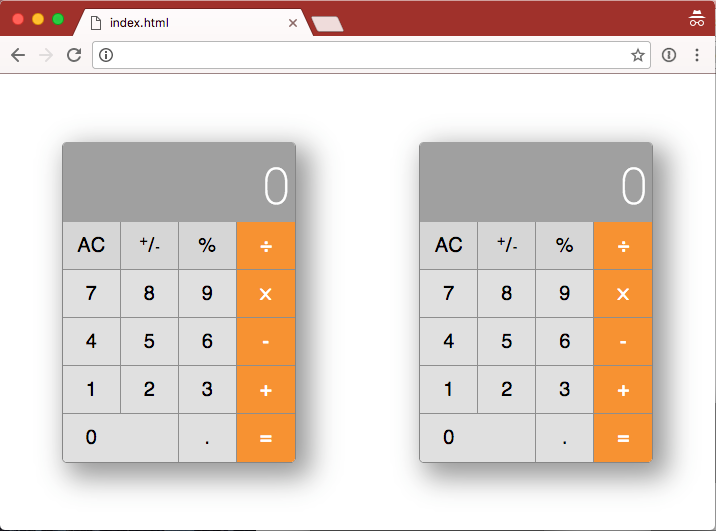
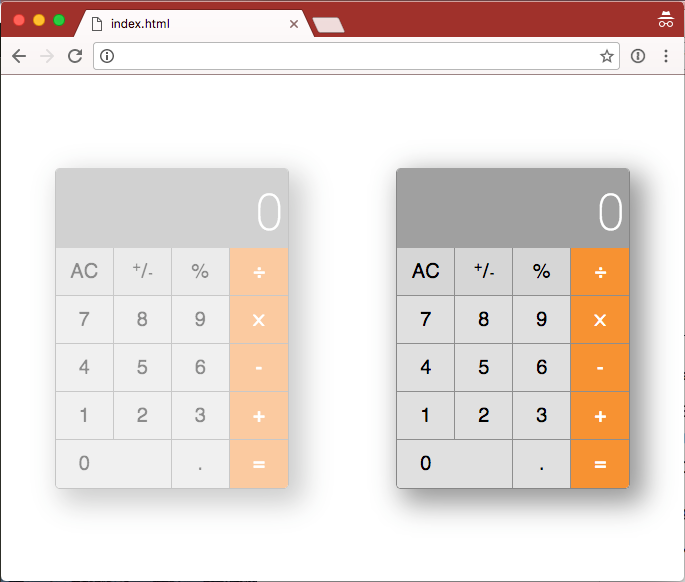
WIP

diff --git a/README.md b/README.md
@@ -109,6 +109,7 @@ In stage 3 you are going to add a second calculator to the page. Both calculator
 - Event delegation
 - JavaScript Constructors
 - Componentization
+- Composition
 
 ##### During this phase you should…
 
@@ -117,7 +118,7 @@ In stage 3 you are going to add a second calculator to the page. Both calculator
 ##### Specs
 
 - [ ] Each calculator should act independently.
-- [ ] Clicking anyone on a calculator focuses that calculator.
+- [ ] Clicking anywhere on a calculator focuses that calculator.
 - [ ] Typing a relevant key should affect the focused calculator.
 - [ ] Use event delegation to avoid binding a `click` event listener to each button
 - [ ] The focused calculator should be `opacity: 1`
